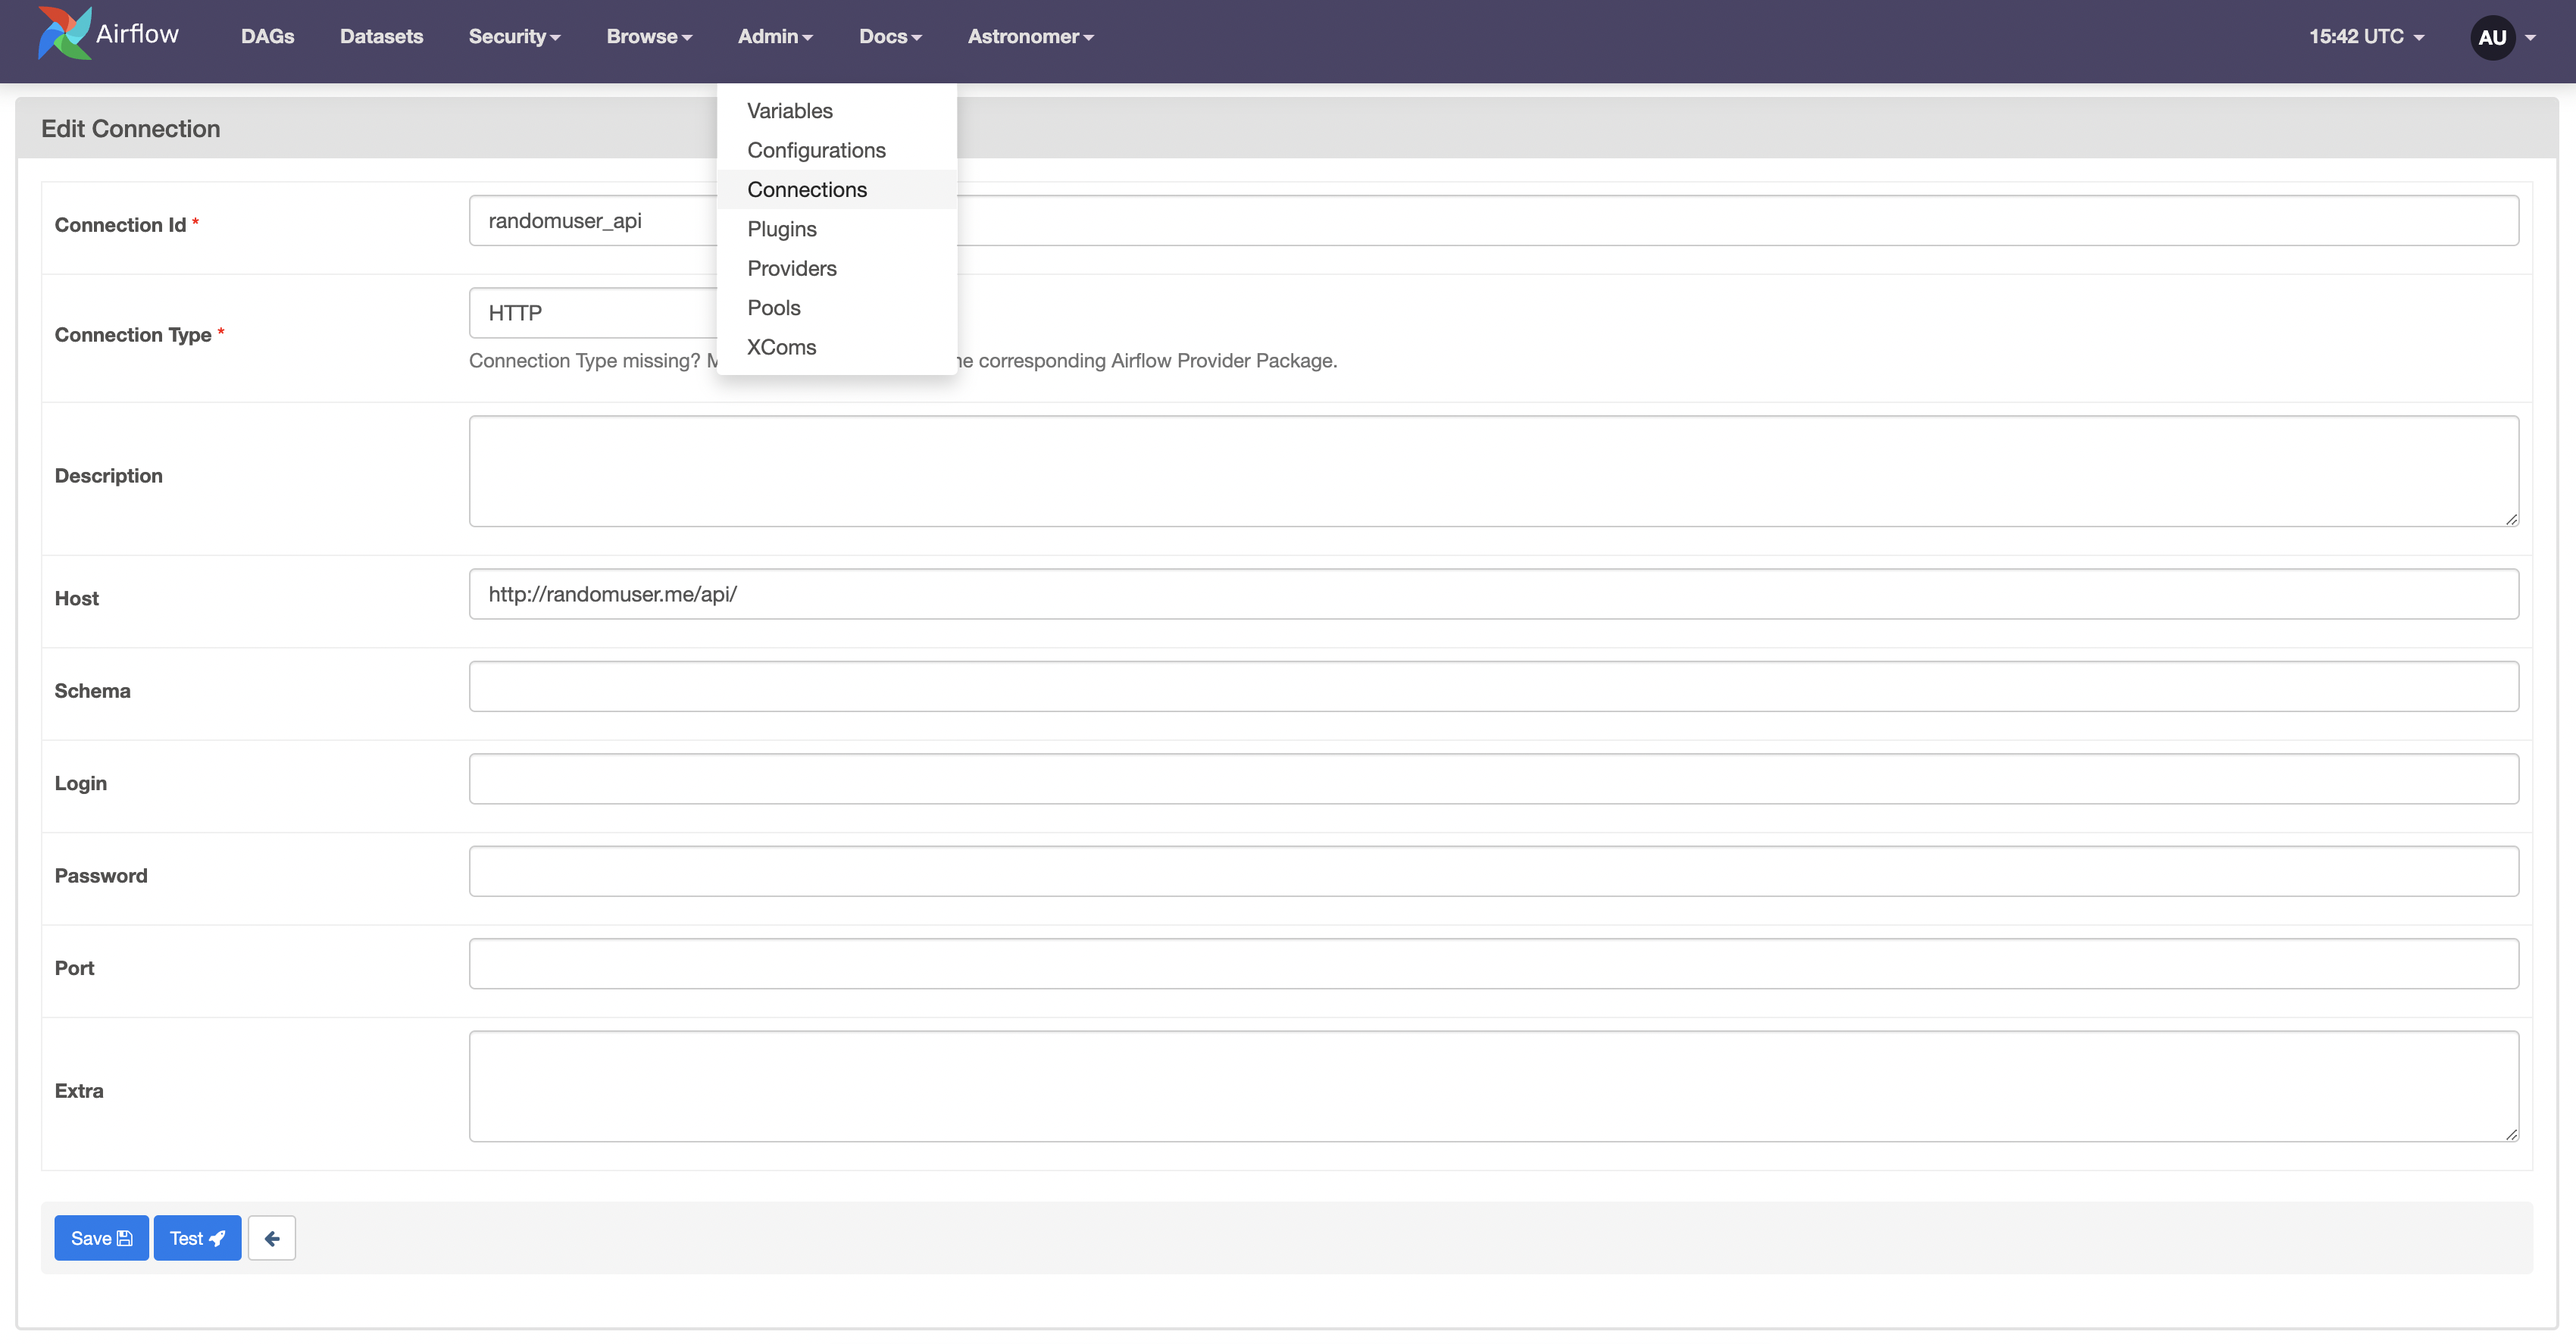
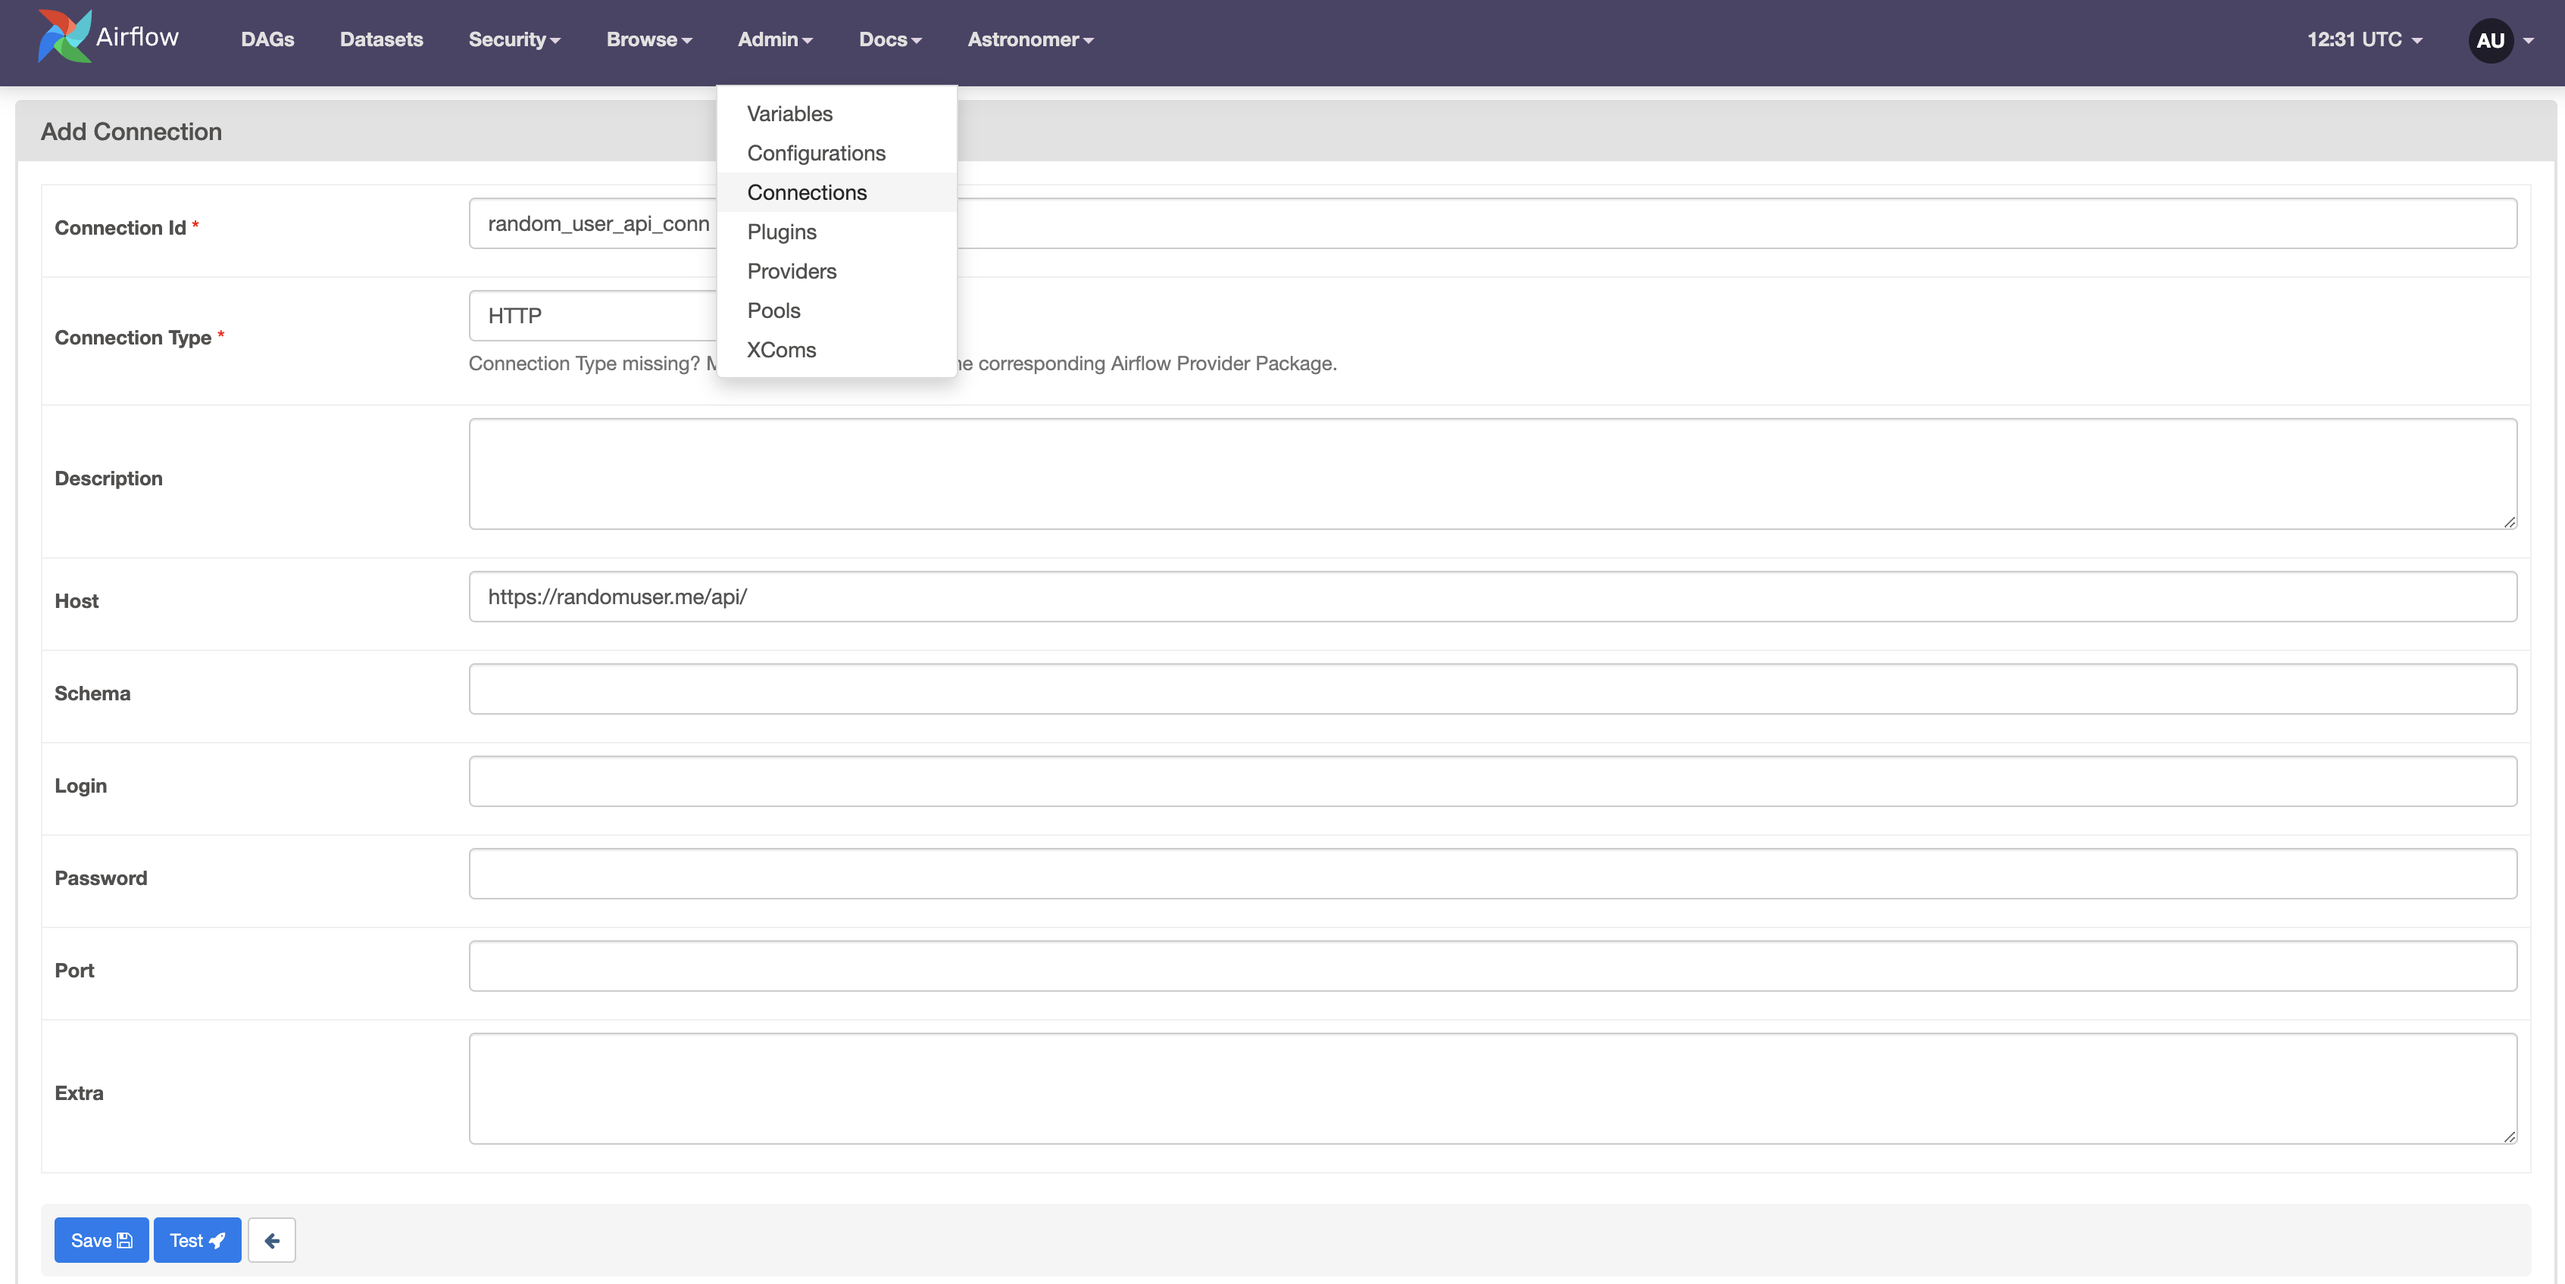
Update operator-extra-link-tutorial.md (#1655)
* Update operator-extra-link-tutorial.md

Connection generated in `Step 4` is called `random_user_api_conn`, not `randomuser_api`.

* change connection ID name in the screenshot

diff --git a/learn/operator-extra-link-tutorial.md b/learn/operator-extra-link-tutorial.md
@@ -213,7 +213,7 @@ Another core feature of extra links is that you can dynamically generate them ba
     )
     ```
 
-This task will post the same GET request to the API you defined with the connection ID `randomuser_api` as the first task, but this time using the `CatHttpOperator`.
+This task will post the same GET request to the API you defined with the connection ID `random_user_api_conn` as the first task, but this time using the `CatHttpOperator`.
 
 ## Step 8: Run your DAG and view modified XComs
 
